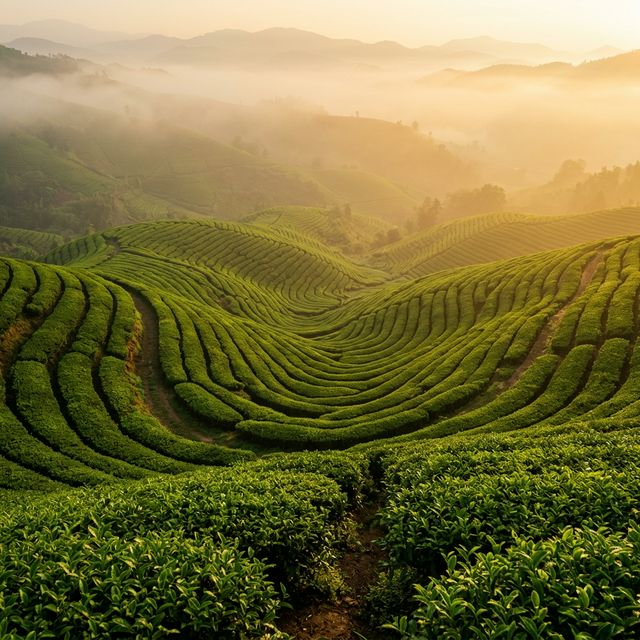
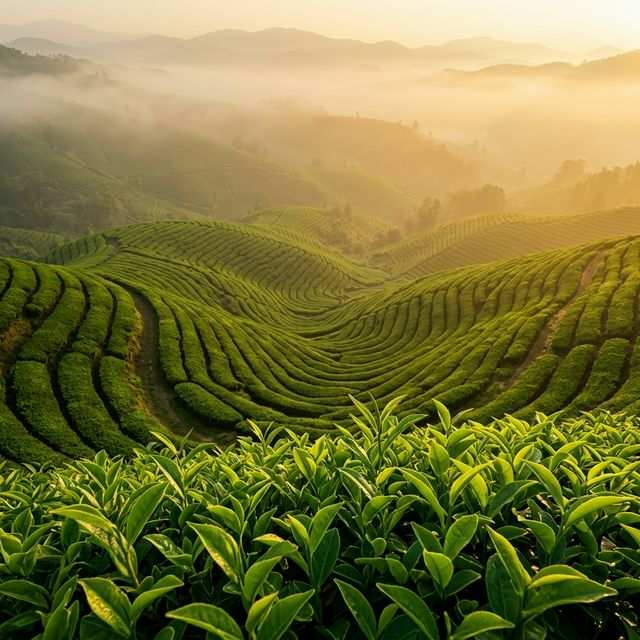
feat: implement hero section with 3-layer parallax scrolling, decorative leaves, and foundational base styles.

Changed region(s): [[0.0, 0.5938, 1.0, 1.0], [0.1875, 0.625, 0.2188, 0.6562]]

diff --git a/js/hero-parallax.js b/js/hero-parallax.js
@@ -5,13 +5,14 @@
   /* ---------- DECORATIVE LEAF LAYER (between sky and hills) ---------- */
   const leavesContainer = document.getElementById('leavesContainer');
   const leafSrc = 'images/leaf.png';
-  const LEAF_COUNT = window.innerWidth < 768 ? 14 : 28;
+  const LEAF_COUNT = window.innerWidth < 768 ? 12 : 22;
 
-  // 3 depth sub-layers: back (smaller, blurry), mid, front (biggest, sharp)
+  // 3 depth sub-layers: back (smaller), mid, front (biggest, sharp)
+  // Using opacity for depth illusion (much cheaper than CSS blur filter)
   const depthLayers = [
-    { sizeMin: 60, sizeMax: 100, opacityMin: 0.2, opacityMax: 0.4, blur: 2.5, yMin: 5, yMax: 65 },
-    { sizeMin: 80, sizeMax: 130, opacityMin: 0.35, opacityMax: 0.6, blur: 1, yMin: 10, yMax: 70 },
-    { sizeMin: 110, sizeMax: 180, opacityMin: 0.55, opacityMax: 0.85, blur: 0, yMin: 8, yMax: 75 },
+    { sizeMin: 55, sizeMax: 95,  opacityMin: 0.3, opacityMax: 0.5,  yMin: 5,  yMax: 65 },
+    { sizeMin: 75, sizeMax: 125, opacityMin: 0.45, opacityMax: 0.7, yMin: 10, yMax: 70 },
+    { sizeMin: 105, sizeMax: 170, opacityMin: 0.65, opacityMax: 0.9,  yMin: 8,  yMax: 75 },
   ];
 
   function createLeaf(index) {
@@ -20,6 +21,7 @@
     const img = document.createElement('img');
     img.src = leafSrc;
     img.alt = '';
+    img.loading = 'lazy';
     leaf.appendChild(img);
 
     const layer = depthLayers[index % depthLayers.length];
@@ -28,10 +30,10 @@
     const posYPercent = layer.yMin + Math.random() * (layer.yMax - layer.yMin);
     const rotation = Math.random() * 160 - 80;
     const opacity = layer.opacityMin + Math.random() * (layer.opacityMax - layer.opacityMin);
-    const swayDuration = 3 + Math.random() * 5;
+    const swayDuration = 4 + Math.random() * 5;
     const swayDelay = Math.random() * 4;
-    const swayAmount = 5 + Math.random() * 12;
-    const rotSway = 4 + Math.random() * 12;
+    const swayAmount = 5 + Math.random() * 10;
+    const rotSway = 3 + Math.random() * 8;
 
     leaf.style.cssText = `
       width: ${size}px;
@@ -39,8 +41,7 @@
       left: ${posX}%;
       top: ${posYPercent}%;
       opacity: ${opacity};
-      transform: rotate(${rotation}deg);
-      filter: blur(${layer.blur}px) drop-shadow(0 2px 8px rgba(0,0,0,0.12));
+      transform: rotate(${rotation}deg) translateZ(0);
       --sway: ${swayAmount}px;
       --rot-sway: ${rotSway}deg;
       --base-rot: ${rotation}deg;
@@ -55,57 +56,75 @@
   const leafStyles = document.createElement('style');
   leafStyles.textContent = `
     @keyframes leafSway {
-      0%   { transform: rotate(var(--base-rot)) translateY(0) translateX(0); }
-      100% { transform: rotate(calc(var(--base-rot) + var(--rot-sway))) translateY(var(--sway)) translateX(calc(var(--sway) * 0.6)); }
+      0%   { transform: rotate(var(--base-rot)) translateY(0) translateX(0) translateZ(0); }
+      100% { transform: rotate(calc(var(--base-rot) + var(--rot-sway))) translateY(var(--sway)) translateX(calc(var(--sway) * 0.6)) translateZ(0); }
     }
   `;
   document.head.appendChild(leafStyles);
 
   for (let i = 0; i < LEAF_COUNT; i++) createLeaf(i);
 
-  /* ---------- 3-LAYER PARALLAX SCROLLING ---------- */
+  /* ---------- 3-LAYER PARALLAX SCROLLING (rAF throttled) ---------- */
   const heroSky = document.querySelector('.hero-sky-img');
   const heroHills = document.querySelector('.hero-hills-img');
   const heroText = document.querySelector('.hero-text');
   const heroSlider = document.querySelector('.hero-slider');
   const heroOverlay = document.querySelector('.hero-overlay');
 
+  let ticking = false;
+
   function handleParallax() {
     const scrollY = window.scrollY;
     const heroEl = document.querySelector('.hero');
     const heroHeight = heroEl?.offsetHeight || window.innerHeight;
-    const ratio = Math.min(scrollY / heroHeight, 1);
+
+    // Early exit: don't compute if scrolled past hero
+    if (scrollY > heroHeight) {
+      ticking = false;
+      return;
+    }
+
+    const ratio = scrollY / heroHeight;
 
     // Layer 1: Sky moves slowest (distant)
     if (heroSky) {
-      heroSky.style.transform = `scale(1.15) translateY(${scrollY * 0.12}px)`;
+      heroSky.style.transform = `scale(1.15) translateY(${scrollY * 0.12}px) translateZ(0)`;
     }
 
     // Layer 2: Leaves scroll down inside hero
     if (leavesContainer) {
-      leavesContainer.style.transform = `translateY(${scrollY * 0.7}px)`;
+      leavesContainer.style.transform = `translateY(${scrollY * 0.7}px) translateZ(0)`;
     }
 
     // Layer 3: Hills barely move (grounded foreground)
     if (heroHills) {
-      heroHills.style.transform = `scale(1.05) translateY(${scrollY * 0.05}px)`;
+      heroHills.style.transform = `scale(1.05) translateY(${scrollY * 0.05}px) translateZ(0)`;
     }
 
     // Content fades out as you scroll
     if (heroText) {
-      heroText.style.transform = `translateY(${scrollY * 0.15}px)`;
+      heroText.style.transform = `translateY(${scrollY * 0.15}px) translateZ(0)`;
       heroText.style.opacity = 1 - ratio * 1.3;
     }
     if (heroSlider) {
-      heroSlider.style.transform = `translateY(${scrollY * 0.1}px)`;
+      heroSlider.style.transform = `translateY(${scrollY * 0.1}px) translateZ(0)`;
       heroSlider.style.opacity = 1 - ratio * 1.2;
     }
     if (heroOverlay) {
       heroOverlay.style.opacity = Math.min(0.5 + ratio * 0.5, 1);
     }
+
+    ticking = false;
   }
 
-  window.addEventListener('scroll', handleParallax, { passive: true });
+  function onScroll() {
+    if (!ticking) {
+      ticking = true;
+      requestAnimationFrame(handleParallax);
+    }
+  }
+
+  window.addEventListener('scroll', onScroll, { passive: true });
 
   // Init
   handleParallax();

diff --git a/css/hero.css b/css/hero.css
@@ -6,6 +6,7 @@
   align-items: center;
   overflow: visible;
   background: var(--tea-900);
+  contain: layout style;
 }
 
 /* Shared layer base */
@@ -24,8 +25,10 @@
   width: 100%;
   height: 100%;
   object-fit: cover;
-  transform: scale(1.15);
+  object-position: center;
+  transform: scale(1.15) translateZ(0);
   will-change: transform;
+  image-rendering: auto;
 }
 
 /* LAYER 2: Floating leaves (between sky and hills) */
@@ -42,8 +45,9 @@
 
 .floating-leaf {
   position: absolute;
-  will-change: transform;
+  transform: translateZ(0);
   pointer-events: none;
+  contain: layout style;
 }
 
 .floating-leaf img {
@@ -61,8 +65,10 @@
   width: 100%;
   height: 100%;
   object-fit: cover;
-  transform: scale(1.05);
+  object-position: center;
+  transform: scale(1.05) translateZ(0);
   will-change: transform;
+  image-rendering: auto;
   /* Top 40% transparent (cuts sky), gradual blend, fully visible from 60% down */
   mask-image: linear-gradient(to bottom, transparent 30%, rgba(0, 0, 0, 0.3) 40%, rgba(0, 0, 0, 0.7) 50%, black 60%);
   -webkit-mask-image: linear-gradient(to bottom, transparent 30%, rgba(0, 0, 0, 0.3) 40%, rgba(0, 0, 0, 0.7) 50%, black 60%);
@@ -98,7 +104,7 @@
 .hero-badge {
   display: inline-block;
   padding: 8px 20px;
-  background: rgba(163, 204, 163, 0.15);
+  background: rgba(45, 74, 45, 0.6);
   border: 1px solid rgba(163, 204, 163, 0.3);
   border-radius: 100px;
   font-size: 0.72rem;
@@ -107,7 +113,6 @@
   text-transform: uppercase;
   color: var(--tea-200);
   margin-bottom: 28px;
-  backdrop-filter: blur(10px);
 }
 
 .hero-headline {
@@ -187,18 +192,16 @@
   flex: 0 0 calc(50% - 10px);
   border-radius: var(--radius-md);
   overflow: hidden;
-  background: rgba(255, 255, 255, 0.08);
-  backdrop-filter: blur(20px);
-  -webkit-backdrop-filter: blur(20px);
+  background: rgba(40, 60, 40, 0.65);
   border: 1px solid rgba(255, 255, 255, 0.12);
-  transform: scale(0.92);
+  transform: scale(0.92) translateZ(0);
   opacity: 0.6;
   transition: var(--transition-slow);
   cursor: pointer;
 }
 
 .slide-card.active {
-  transform: scale(1);
+  transform: scale(1) translateZ(0);
   opacity: 1;
   border-color: rgba(163, 204, 163, 0.4);
   box-shadow: var(--shadow-glow);
@@ -250,11 +253,10 @@
   display: flex;
   align-items: center;
   justify-content: center;
-  background: rgba(255, 255, 255, 0.1);
+  background: rgba(45, 74, 45, 0.5);
   border: 1px solid rgba(255, 255, 255, 0.2);
   color: var(--cream);
   transition: var(--transition);
-  backdrop-filter: blur(10px);
 }
 
 .slider-btn:hover {
@@ -289,7 +291,7 @@
   bottom: 40px;
   right: 5%;
   z-index: 13;
-  width: 280px;
+  width: 250px;
 }
 
 .teapot-img {

diff --git a/css/base.css b/css/base.css
@@ -40,7 +40,7 @@
 
 html {
   scroll-behavior: smooth;
-  font-size: 16px;
+  font-size: 14.5px;
   overflow-x: hidden;
 }
 
